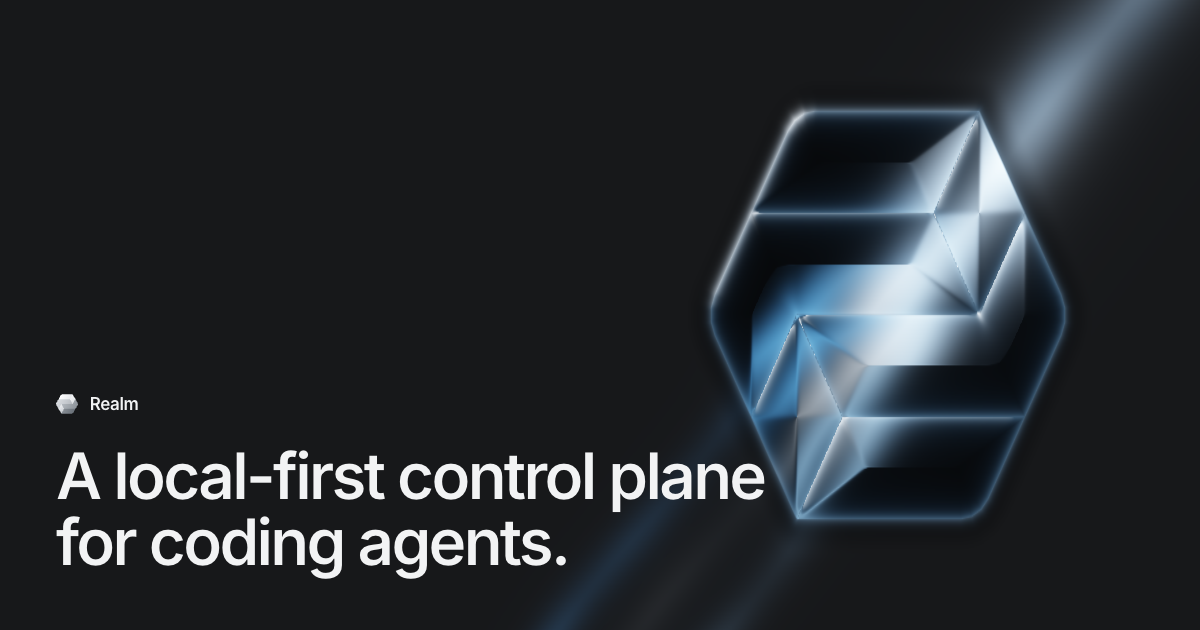
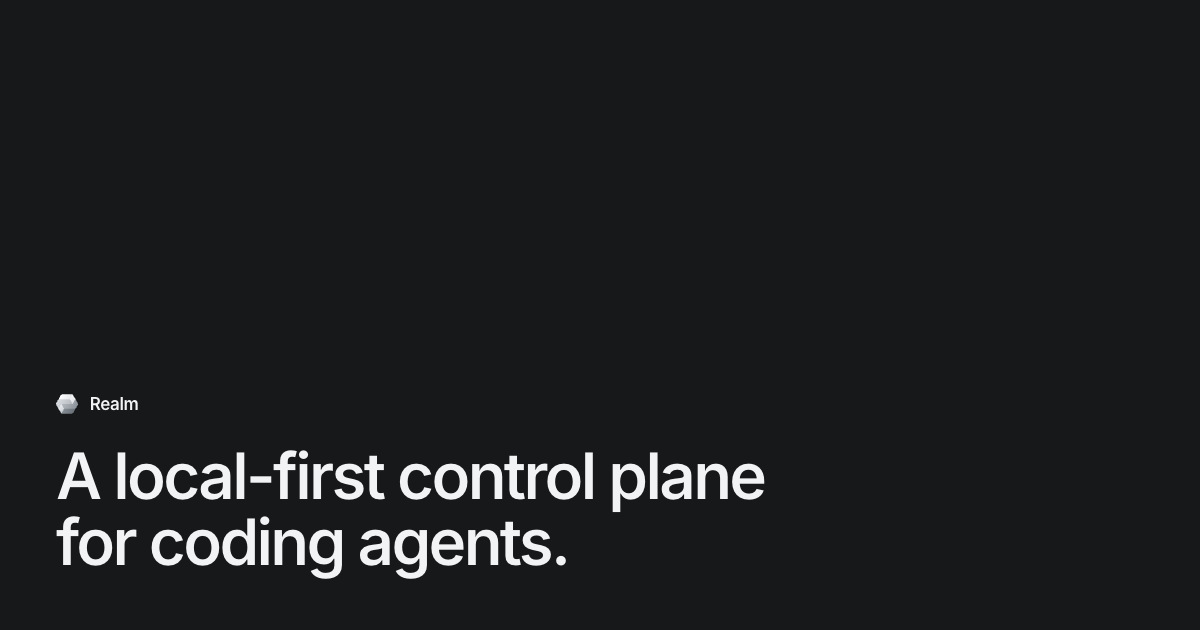
Take the mark off the share image
At card size the glass mark read as a crystal rather than as the mark, so
the share image is now the wordmark and the tagline on the page colour.

Changed region(s): [[0.5858, 0.0, 1.0, 0.9048], [0.4317, 0.754, 0.5858, 1.0], [0.5858, 0.9651, 0.6167, 1.0]]

diff --git a/site/app/share/page.tsx b/site/app/share/page.tsx
@@ -1,6 +1,5 @@
 import type { Metadata } from "next"
 
-import { RealmCanvas } from "@/components/RealmCanvas"
 import { Wordmark } from "@/components/Wordmark"
 import { site } from "@/lib/site"
 
@@ -13,18 +12,13 @@ export const metadata: Metadata = {
  * The source for the site's share images. scripts/capture-share-images.mjs opens this at 1200 × 630
  * and saves the frame as app/opengraph-image.png and app/twitter-image.png; nothing links here.
  *
- * It is the landing page with the controls taken off: a card cannot be clicked, so the download
- * button and the corner links would only be clutter at thumbnail size. The canvas is drawn taller
- * than the viewport so the mark, which sizes itself from the viewport height, fills a card the way
- * it fills a window, and shifted right so the tagline's long line clears it.
+ * It is the wordmark and the tagline on the page colour, and nothing else. A card cannot be clicked,
+ * so the landing page's controls would only be clutter at thumbnail size, and the glass mark was
+ * taken off too: at card size it read as a crystal rather than the mark.
  */
 export default function SharePage() {
   return (
     <main className="relative h-[100dvh] overflow-hidden">
-      <div className="pointer-events-none absolute top-[-28%] right-[-24%] left-[24%] h-[156%]">
-        <RealmCanvas className="h-full w-full" />
-      </div>
-
       <div className="absolute inset-x-0 bottom-0 p-14">
         <Wordmark className="text-ink" />
         <p className="mt-5 max-w-[19ch] text-[64px] leading-[1.02] font-[560] tracking-[-0.042em] text-balance text-ink">
